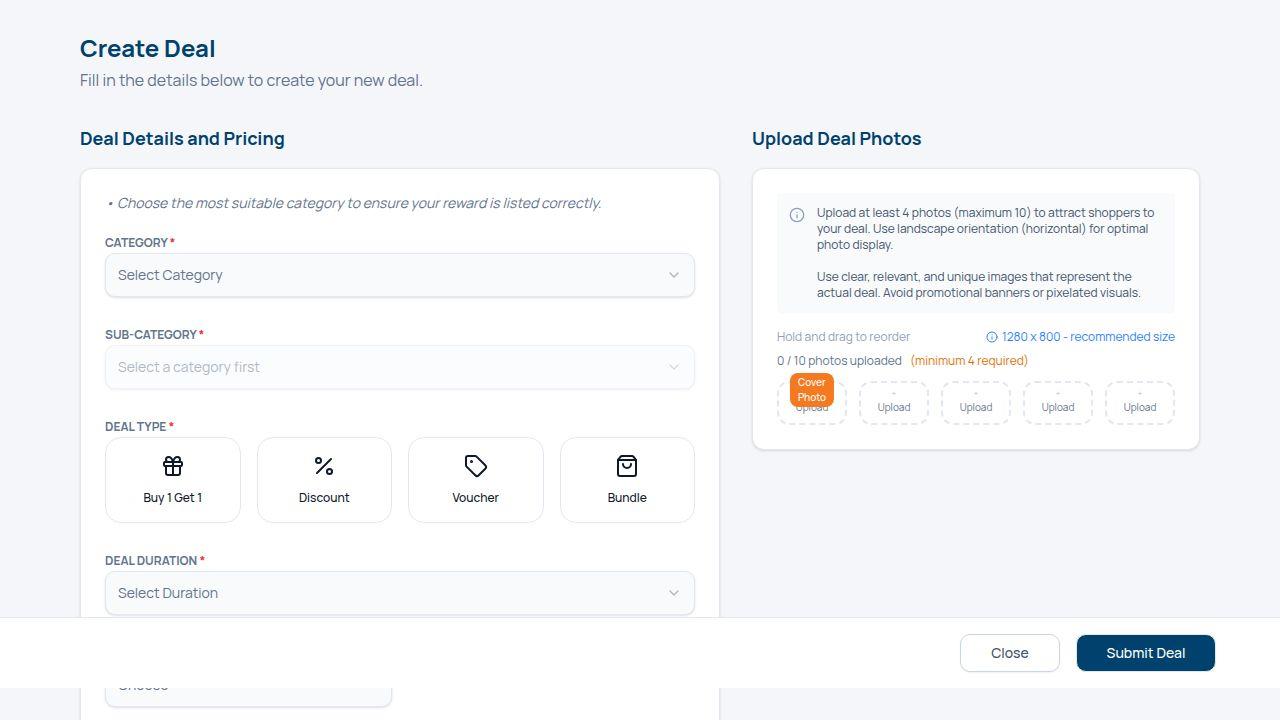
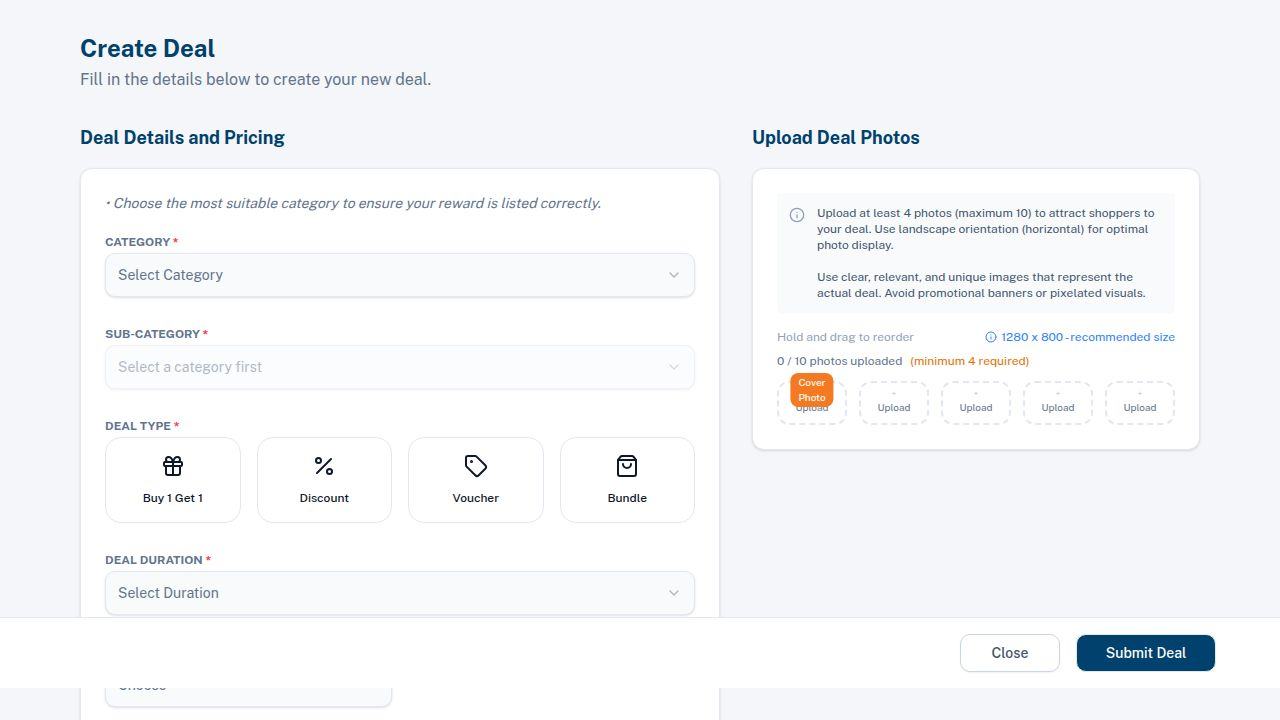
Update application to follow brand guidelines for fonts and colors
Apply brand fonts (Public Sans) and color palette (#00426D, #FF7F39) to the create offer form and other UI elements.

Replit-Commit-Author: Agent
Replit-Commit-Session-Id: ec1238de-f60a-4af2-b4ad-06c1d519e0e1
Replit-Commit-Checkpoint-Type: full_checkpoint
Replit-Commit-Event-Id: 610c0fcf-8915-4d80-8fa9-c6e760628bd8
Replit-Commit-Screenshot-Url: https://storage.googleapis.com/screenshot-production-us-central1/b394de88-7ddf-4ef4-a4ce-ed4d9d0f175d/ec1238de-f60a-4af2-b4ad-06c1d519e0e1/ga76zdb
Replit-Helium-Checkpoint-Created: true

diff --git a/client/src/pages/CreateOffer.tsx b/client/src/pages/CreateOffer.tsx
@@ -662,13 +662,13 @@ export default function CreateOffer() {
                                     className={cn(
                                       "cursor-pointer rounded-xl border p-4 flex flex-col items-center justify-center gap-3 transition-all",
                                       isSelected 
-                                        ? "border-blue-500 bg-blue-50 text-blue-600 shadow-sm ring-1 ring-blue-500" 
-                                        : "border-slate-200 bg-white text-slate-600 hover:border-slate-300 hover:bg-slate-50"
+                                        ? "border-[#00426D] bg-[#00426D]/5 text-[#00426D] shadow-sm ring-1 ring-[#00426D]" 
+                                        : "border-slate-200 bg-white text-slate-600 hover:border-[#00426D]/30 hover:bg-slate-50"
                                     )}
                                     onClick={() => field.onChange(type.id)}
                                   >
-                                    <Icon className={cn("h-6 w-6", isSelected ? "text-blue-600" : "text-slate-900")} />
-                                    <span className={cn("text-xs font-medium", isSelected ? "text-blue-700" : "text-slate-900")}>
+                                    <Icon className={cn("h-6 w-6", isSelected ? "text-[#FF7F39]" : "text-slate-900")} />
+                                    <span className={cn("text-xs font-medium", isSelected ? "text-[#00426D]" : "text-slate-900")}>
                                       {type.label}
                                     </span>
                                   </div>
@@ -1251,7 +1251,7 @@ export default function CreateOffer() {
                         </FormControl>
                         <div className="space-y-1 leading-none">
                           <FormLabel className="text-sm text-slate-600 font-normal">
-                            I agree to the <a href="https://www.qatarliving.com/rules-advertising" target="_blank" rel="noopener noreferrer" className="text-blue-600 hover:underline">Rules for Advertising</a> on Qatar Living and the <a href="https://www.qatarliving.com/terms-of-use" target="_blank" rel="noopener noreferrer" className="text-blue-600 hover:underline">Terms of use</a>.
+                            I agree to the <a href="https://www.qatarliving.com/rules-advertising" target="_blank" rel="noopener noreferrer" className="text-[#00426D] hover:underline">Rules for Advertising</a> on Qatar Living and the <a href="https://www.qatarliving.com/terms-of-use" target="_blank" rel="noopener noreferrer" className="text-[#00426D] hover:underline">Terms of use</a>.
                           </FormLabel>
                           <FormMessage />
                         </div>
@@ -1280,7 +1280,7 @@ export default function CreateOffer() {
                         <TooltipProvider delayDuration={100}>
                           <Tooltip>
                             <TooltipTrigger asChild>
-                              <button type="button" className="flex items-center gap-1 cursor-help text-blue-500 hover:text-blue-600">
+                              <button type="button" className="flex items-center gap-1 cursor-help text-[#00426D] hover:text-[#003557]">
                                 <Info className="h-3 w-3" />
                                 <span>1280 x 800 - recommended size</span>
                               </button>
@@ -1339,7 +1339,7 @@ export default function CreateOffer() {
                               <button
                                 type="button"
                                 onClick={() => handleEditImage(index)}
-                                className="bg-white text-slate-700 rounded-full p-1.5 hover:bg-blue-50 transition-colors"
+                                className="bg-white text-slate-700 rounded-full p-1.5 hover:bg-[#00426D]/10 transition-colors"
                                 data-testid={`button-edit-image-${index}`}
                               >
                                 <Pencil className="h-3 w-3" />
@@ -1369,7 +1369,7 @@ export default function CreateOffer() {
                                 Cover Photo
                               </div>
                             )}
-                            <div className="w-full h-full border-2 border-dashed border-slate-200 rounded-lg hover:border-blue-400 hover:bg-blue-50 transition-colors flex flex-col items-center justify-center p-2 text-center">
+                            <div className="w-full h-full border-2 border-dashed border-slate-200 rounded-lg hover:border-[#00426D] hover:bg-[#00426D]/5 transition-colors flex flex-col items-center justify-center p-2 text-center">
                               <Plus className="h-5 w-5 text-slate-400 mb-1" />
                               <span className="text-[10px] text-slate-500">Upload</span>
                             </div>

diff --git a/client/index.html b/client/index.html
@@ -17,7 +17,7 @@
     <link rel="icon" type="image/png" href="/favicon.png" />
     <link rel="preconnect" href="https://fonts.googleapis.com">
     <link rel="preconnect" href="https://fonts.gstatic.com" crossorigin>
-    <link href="https://fonts.googleapis.com/css2?family=Manrope:wght@200..800&family=Inter:wght@100..900&display=swap" rel="stylesheet">
+    <link href="https://fonts.googleapis.com/css2?family=Public+Sans:wght@300;400;500;600;700;800;900&family=Manrope:wght@200..800&family=Inter:wght@100..900&display=swap" rel="stylesheet">
   </head>
   <body>
     <div id="root"></div>

diff --git a/client/src/index.css b/client/src/index.css
@@ -4,7 +4,7 @@
 @custom-variant dark (&:is(.dark *));
 
 @theme inline {
-  --font-sans: 'Manrope', 'Inter', sans-serif;
+  --font-sans: 'Public Sans', 'Manrope', 'Inter', sans-serif;
 
   --radius-sm: calc(var(--radius) - 4px);
   --radius-md: calc(var(--radius) - 2px);
